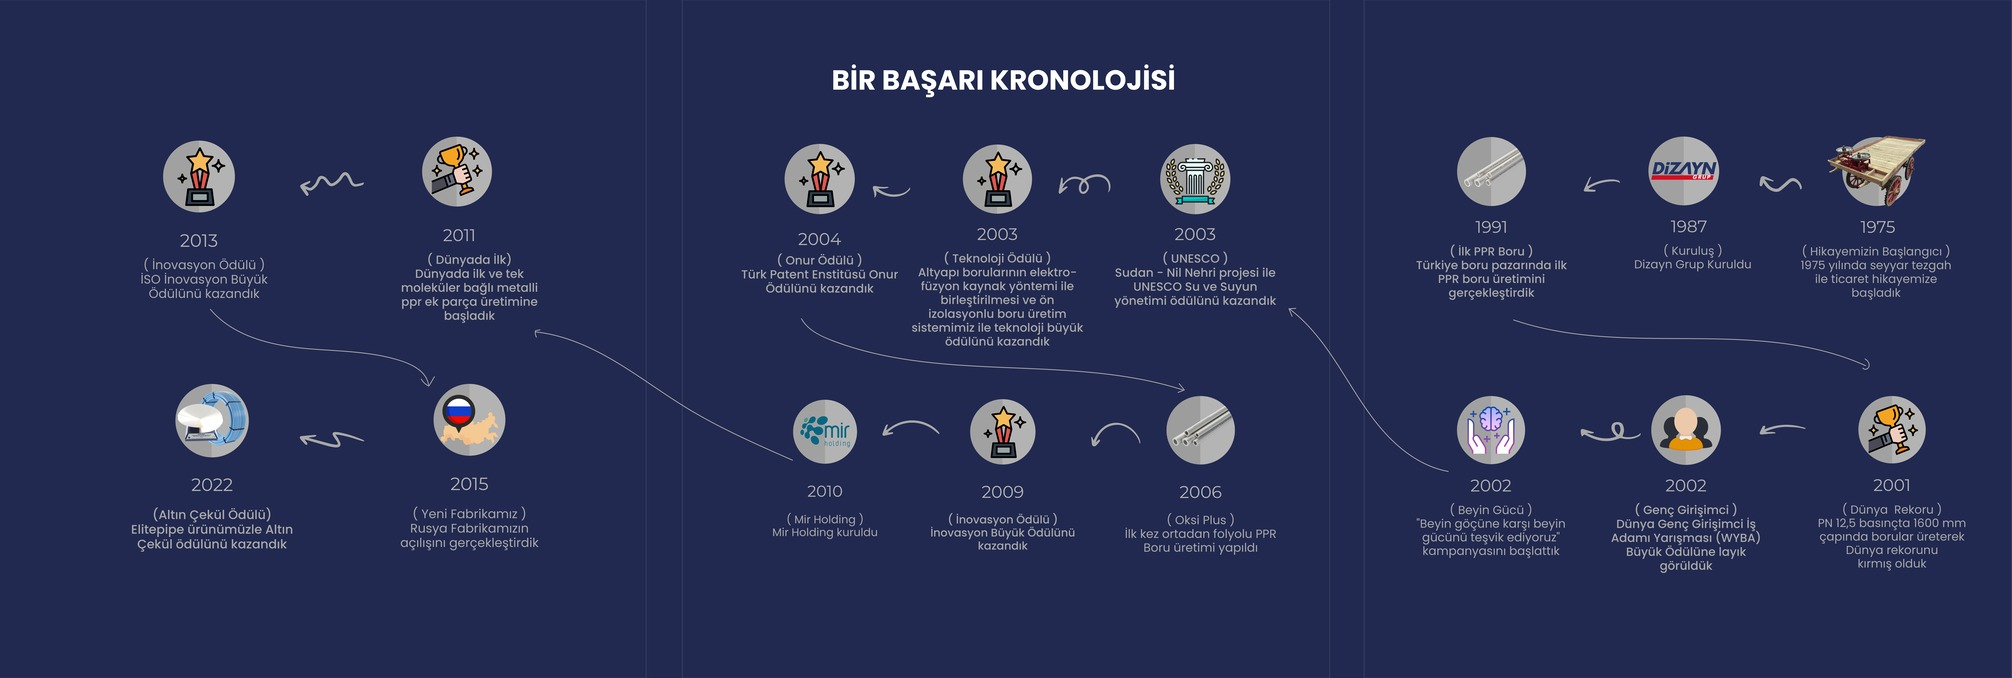
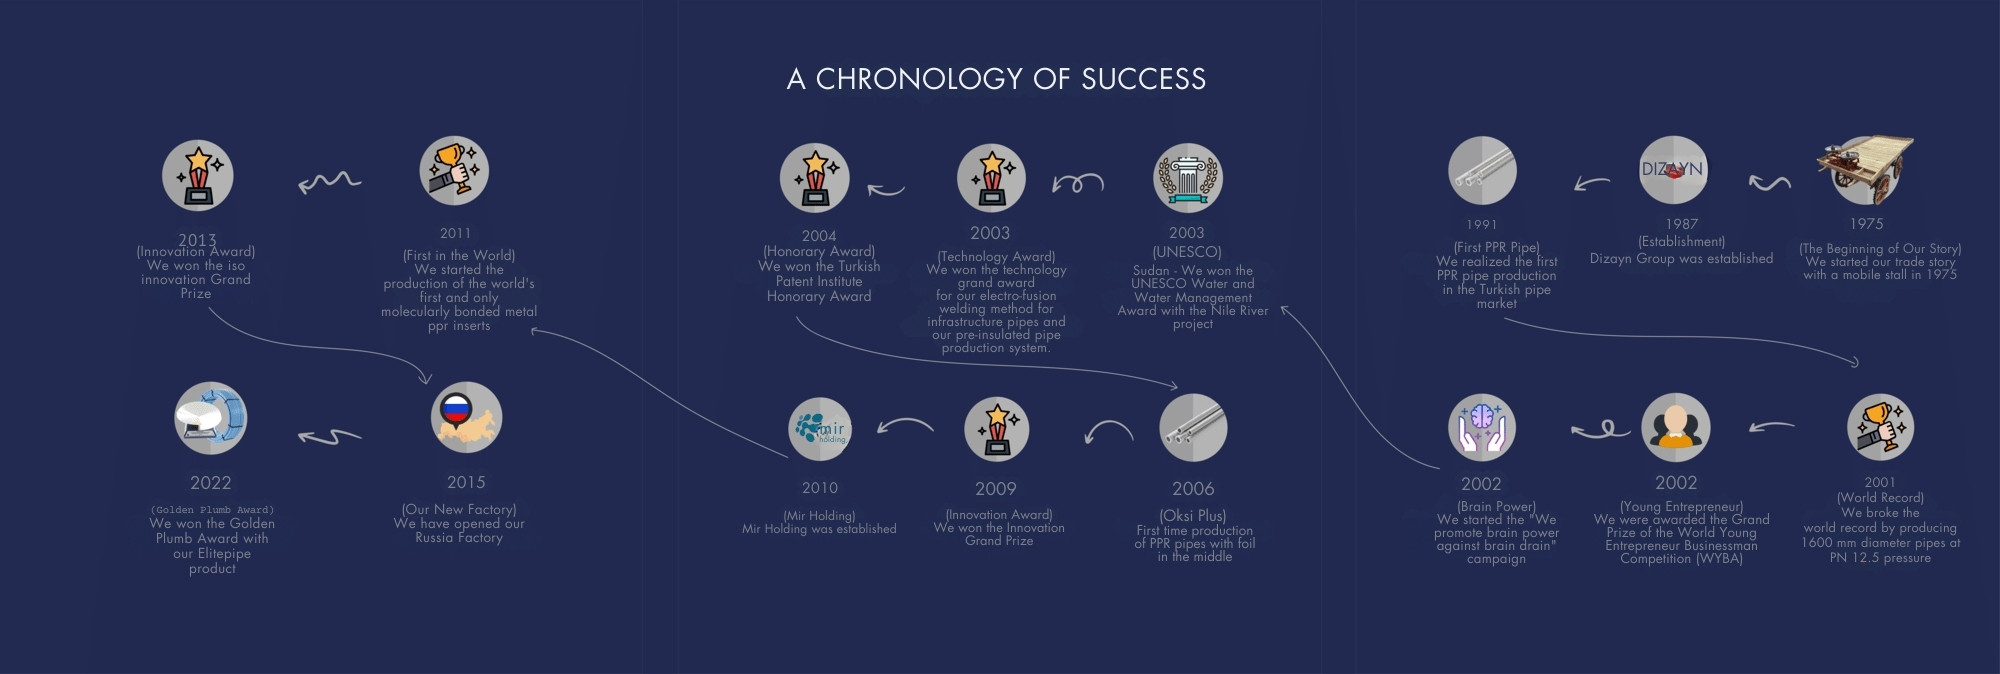
chore: default lang has been changed,  image change

diff --git a/middleware.ts b/middleware.ts
@@ -2,7 +2,7 @@ import createMiddleware from 'next-intl/middleware';
 import {locales, pathnames} from './navigation';
  
 export default createMiddleware({
-  defaultLocale: 'en',
+  defaultLocale: 'tr',
   locales,
   pathnames
 });
